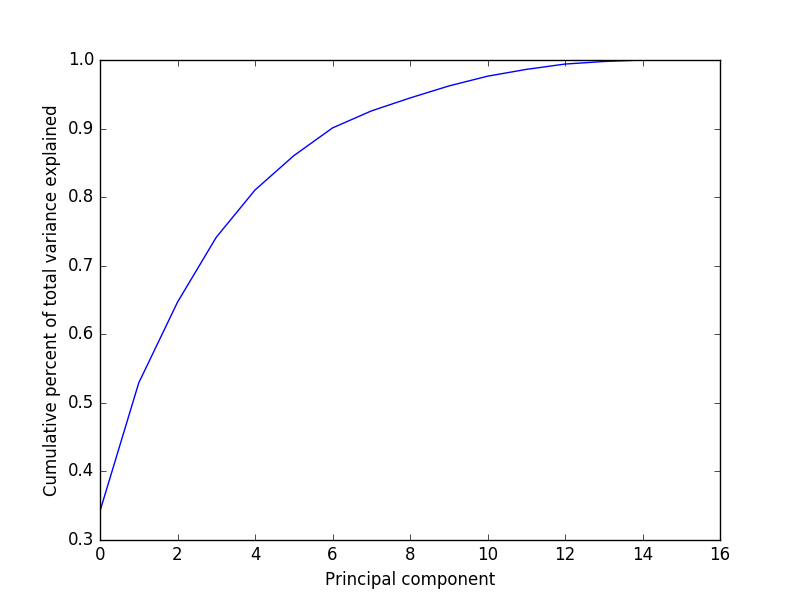
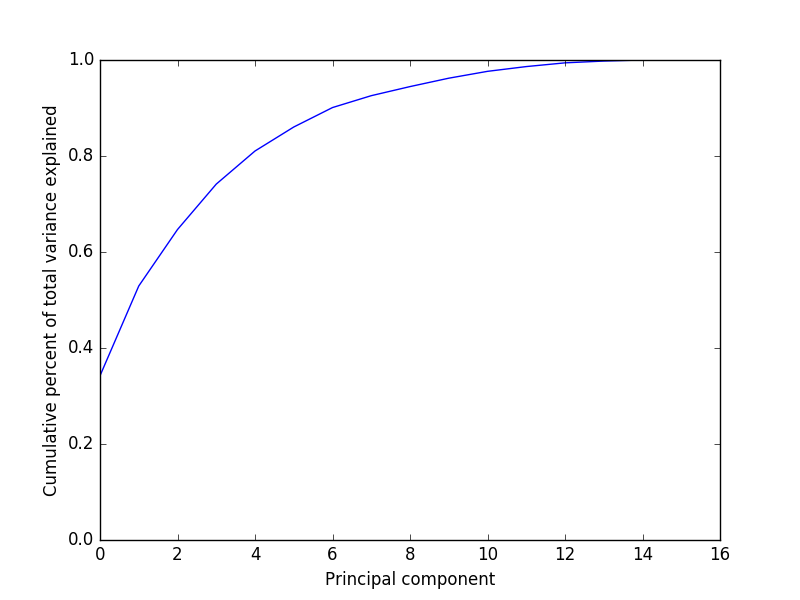
tweak

diff --git a/pca.py b/pca.py
@@ -16,7 +16,7 @@ from mpl_toolkits.mplot3d import Axes3D
 INPUT_FILE = "movie_metadata.csv" #--do not change
 AXIS0_PCA = 0 #--{0, 1, 2}
 AXIS1_PCA = 1 #--{0, 1, 2} different from AXIS0_PCA
-NUM_MOVIES_PCA = 500 #--keep positive
+NUM_MOVIES_PCA = 200 #--keep positive
 COLOR = 0 #--0: gross, 1: year, 2: director_facebook_likes, 3: num_critic_for_reviews
 PLOT_PCA_2D = True #--{True, False}
 PLOT_PCA_3D = True #--{True, False}
@@ -111,6 +111,7 @@ def scree_cum(pca):
 	plt.plot(variances_cum)
 	plt.xlabel('Principal component')
 	plt.ylabel('Cumulative percent of total variance explained')
+	plt.ylim((0,1))
 	plt.show()
 
 ##################################################
